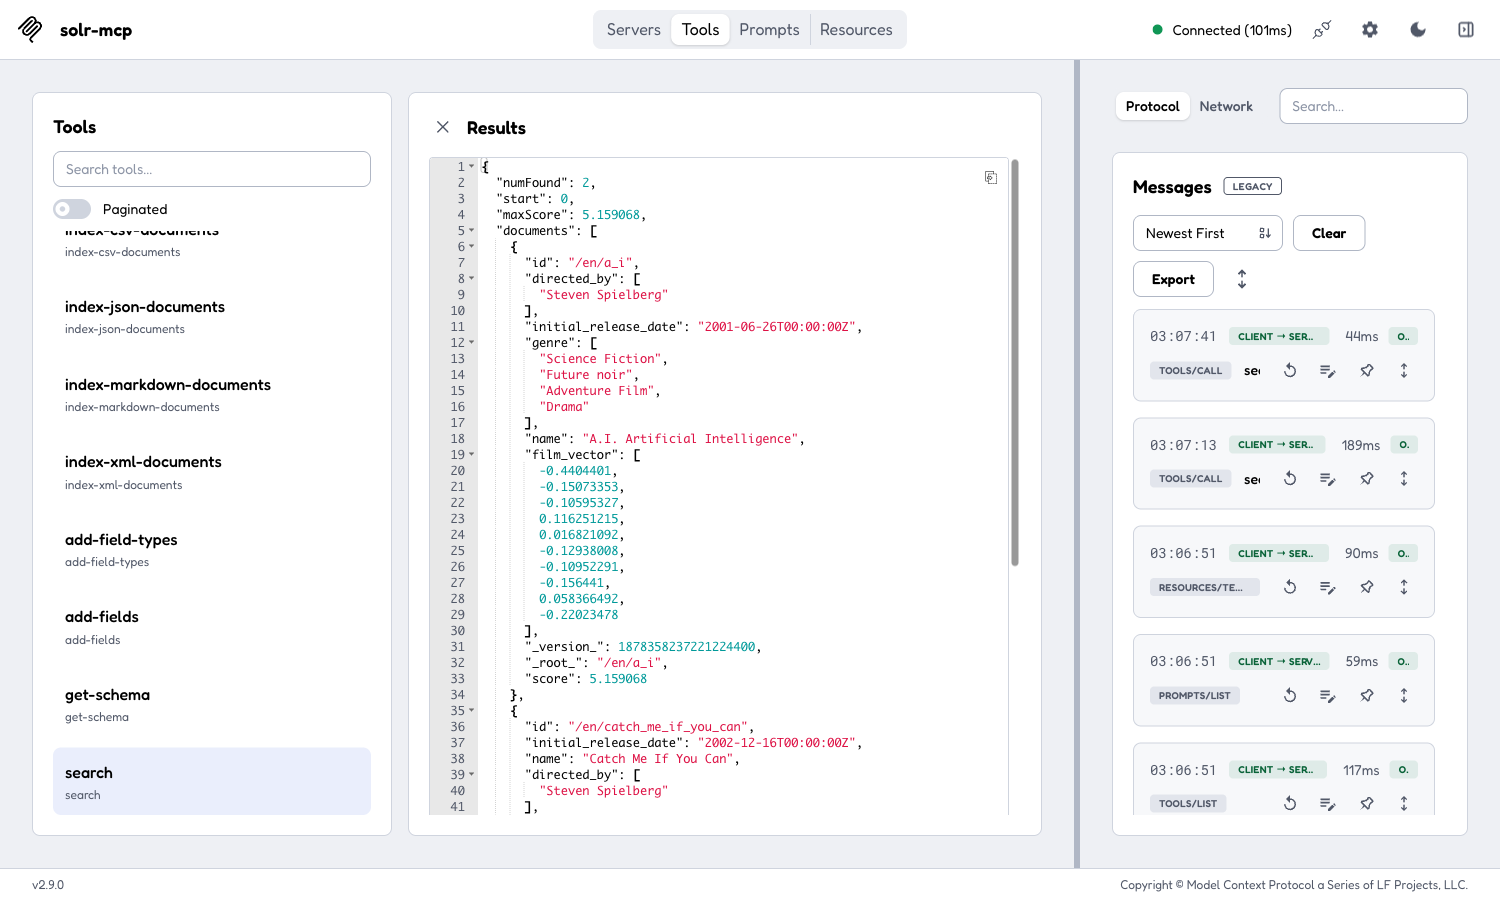
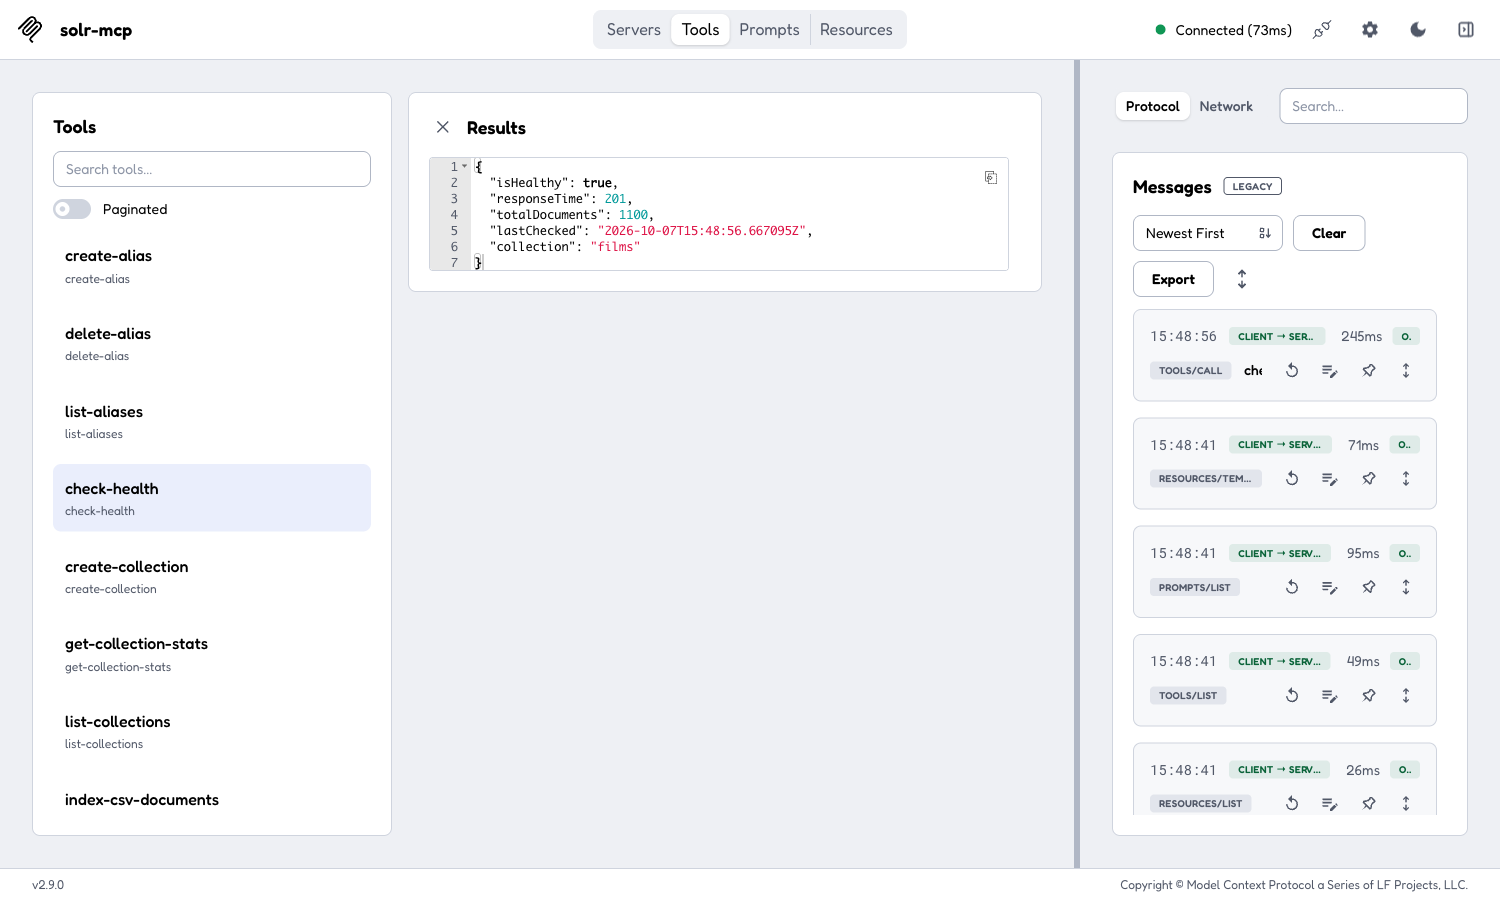
docs: retake the Inspector screenshots so each shows what its caption says
The first set had a half-scrolled card and unrelated servers in the
STDIO shot, an HTTP shot that showed neither the URL nor the transport
and was taken with a token while captioned as anonymous, and no shot of
prompts. Retake them in an Inspector holding only the two Solr servers:

- STDIO: the java -jar entry connected, with the list exchange in the
  protocol log.
- HTTP: the URL connected anonymously; tools list but calls need a token.
- OAuth2: the header dialog, then check-health on films succeeding.
- Prompts: search-collection completing its collection argument (new).

Match the README and guide captions to the new shots, use the
solr-mcp-stdio server ID the screenshot shows, mention the Reconnect
now notice, and describe what a too-old java looks like on the card.

diff --git a/docs/clients/mcp-inspector.md b/docs/clients/mcp-inspector.md
@@ -19,7 +19,7 @@ Servers are added from the **Servers** page with **Add Servers → + Add manuall
 ## STDIO Mode ##
 
 1. **Add Servers → + Add manually**
-2. **Server ID**: `solr-mcp`
+2. **Server ID**: `solr-mcp-stdio`
 3. **Transport**: `stdio (local process)`
 4. **Command**: `java`
 5. **Arguments** (one per line):
@@ -30,7 +30,9 @@ Servers are added from the **Servers** page with **Add Servers → + Add manuall
 6. **Environment**: `SOLR_URL=http://localhost:8983/solr/`
 7. Click **Add**, then switch the server's toggle on
 
-The Inspector runs `java` from the `PATH` of the shell you started it in, and the server needs Java 25. If that `java` is older, put the full path to a Java 25 `java` in **Command**.
+The Inspector runs `java` from the `PATH` of the shell you started it in, and the server needs Java 25. If that `java` is older, the card shows **Failed** and the console on the right shows an `UnsupportedClassVersionError`; put the full path to a Java 25 `java` in **Command**.
+
+Once connected, the protocol log on the right shows the `initialize`, `tools/list`, `prompts/list` and `resources/list` exchange:
 
 ![MCP Inspector connected to the server over STDIO](../../images/mcp-inspector-stdio.png)
 
@@ -62,7 +64,9 @@ The Inspector runs `java` from the `PATH` of the shell you started it in, and th
 
 **Linux users** (Docker option): add `--add-host=host.docker.internal:host-gateway` to the `docker run` command.
 
-![MCP Inspector calling check-health over HTTP](../../images/mcp-inspector-http.png)
+Without a token the Inspector still connects and lists the tools; calling them needs a bearer token (next section).
+
+![MCP Inspector connected to the server over Streamable HTTP](../../images/mcp-inspector-http.png)
 
 ***
 
@@ -79,15 +83,15 @@ Because the server never challenges `/mcp` with `401`, the Inspector's interacti
 
 2. On the server's card, open **Settings → Custom Headers → + Add Header**
 3. Set the key to `Authorization` and the value to `Bearer <token>`
-4. Switch the server's toggle off and on again; headers take effect on the next connect
+4. Close the dialog and click **Reconnect now** on the notice that appears (or switch the server's toggle off and on); headers take effect on the next connect
 
 The token's audience must match the URL the Inspector connects to, so use `http://localhost:8080/mcp` rather than `127.0.0.1` with the Keycloak realm above.
 
 ![MCP Inspector custom Authorization header](../../images/mcp-inspector-http-oauth-headers.png)
 
-With a valid token, tool calls succeed:
+With a valid token, tool calls succeed — here `check-health` on `films`:
 
-![MCP Inspector search succeeding with a bearer token](../../images/mcp-inspector-http-oauth-success.png)
+![MCP Inspector check-health succeeding with a bearer token](../../images/mcp-inspector-http-oauth-success.png)
 
 Without one, every tool call returns `Access Denied`:
 
@@ -97,7 +101,7 @@ See the [HTTP security model](../security/http.md) for server-side OAuth2 setup 
 
 ***
 
-## Resources and completions ##
+## Resources, prompts and completions ##
 
 The **Resources** tab lists `solr://collections` and the `solr://{collection}/schema` template:
 
@@ -106,3 +110,7 @@ The **Resources** tab lists `solr://collections` and the `solr://{collection}/sc
 Typing into the template's `collection` field asks the server for completions, which come back as live collection names:
 
 ![MCP Inspector completing the collection argument](../../images/mcp-inspector-resource-completion.png)
+
+The **Prompts** tab lists the server's six workflow prompts. The `collection` argument of `search-collection` (shown here), `index-data`, `view-schema` and `design-schema` completes the same way:
+
+![MCP Inspector completing a prompt's collection argument](../../images/mcp-inspector-prompt-completion.png)

diff --git a/README.md b/README.md
@@ -152,25 +152,25 @@ Suggestions are matched case-insensitively by prefix and capped per request.
 ![Claude Desktop calling Solr MCP tools over STDIO](images/claude-stdio.png)
 
 <details>
-<summary><b>MCP Inspector</b> — STDIO, HTTP, OAuth2, resources and completions</summary>
+<summary><b>MCP Inspector</b> — STDIO, HTTP, OAuth2, resources, prompts and completions</summary>
 
-**STDIO** — the Inspector launches the server with `java -jar`:
+**STDIO** — the Inspector launches the server with `java -jar`; the protocol log shows the tool, prompt and resource lists coming back:
 
 ![MCP Inspector connected to the server over STDIO](images/mcp-inspector-stdio.png)
 
-**HTTP** — `check-health` on `films` over Streamable HTTP at `http://localhost:8080/mcp`:
+**HTTP** — connected over Streamable HTTP at `http://localhost:8080/mcp`. Without a token the client connects and lists tools; calling them needs a bearer token:
 
-![MCP Inspector calling check-health over HTTP](images/mcp-inspector-http.png)
+![MCP Inspector connected to the server over Streamable HTTP](images/mcp-inspector-http.png)
 
 **HTTP with OAuth2** — the bearer token goes in the server's **Settings → Custom Headers**:
 
 ![MCP Inspector custom Authorization header](images/mcp-inspector-http-oauth-headers.png)
 
-With a valid token, tool calls succeed:
+With a valid token, tool calls succeed — here `check-health` on `films`:
 
-![MCP Inspector search succeeding with a bearer token](images/mcp-inspector-http-oauth-success.png)
+![MCP Inspector check-health succeeding with a bearer token](images/mcp-inspector-http-oauth-success.png)
 
-Without one, the client still connects and lists tools, but every tool call returns `Access Denied`:
+Without one, every tool call returns `Access Denied`:
 
 ![MCP Inspector search denied without a bearer token](images/mcp-inspector-http-oauth-failure.png)
 
@@ -181,6 +181,10 @@ Without one, the client still connects and lists tools, but every tool call retu
 **Completions** — the `{collection}` argument of `solr://{collection}/schema` completes to live collection names:
 
 ![MCP Inspector completing the collection argument](images/mcp-inspector-resource-completion.png)
+
+**Prompts** — the `collection` argument of `search-collection` completes the same way:
+
+![MCP Inspector completing a prompt's collection argument](images/mcp-inspector-prompt-completion.png)
 
 </details>
 
